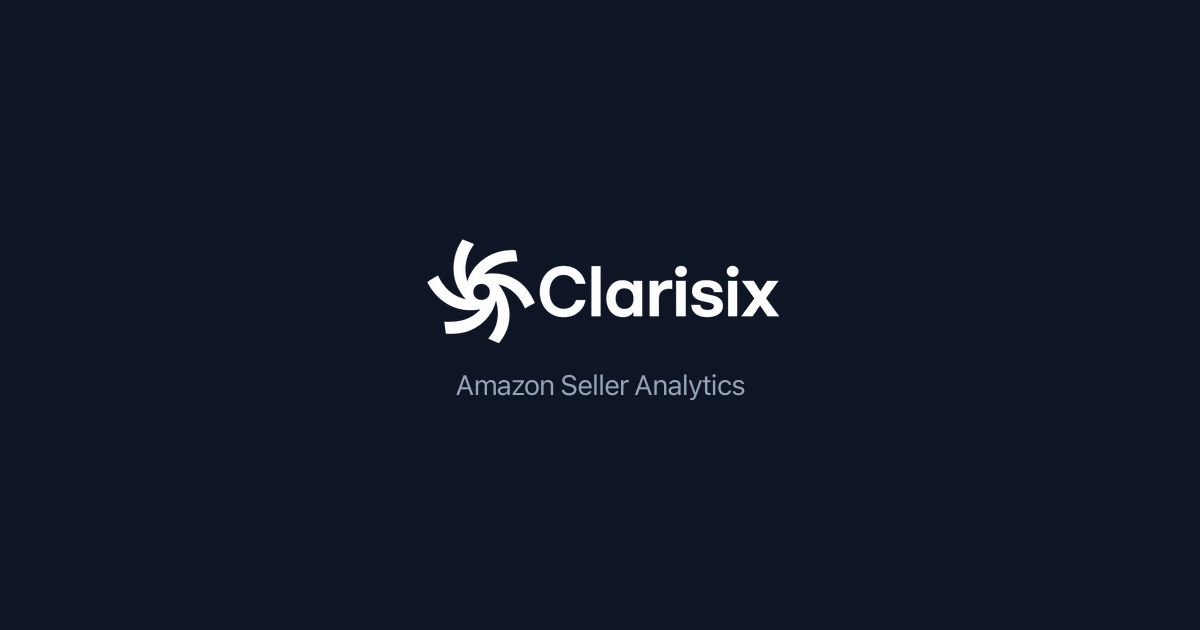
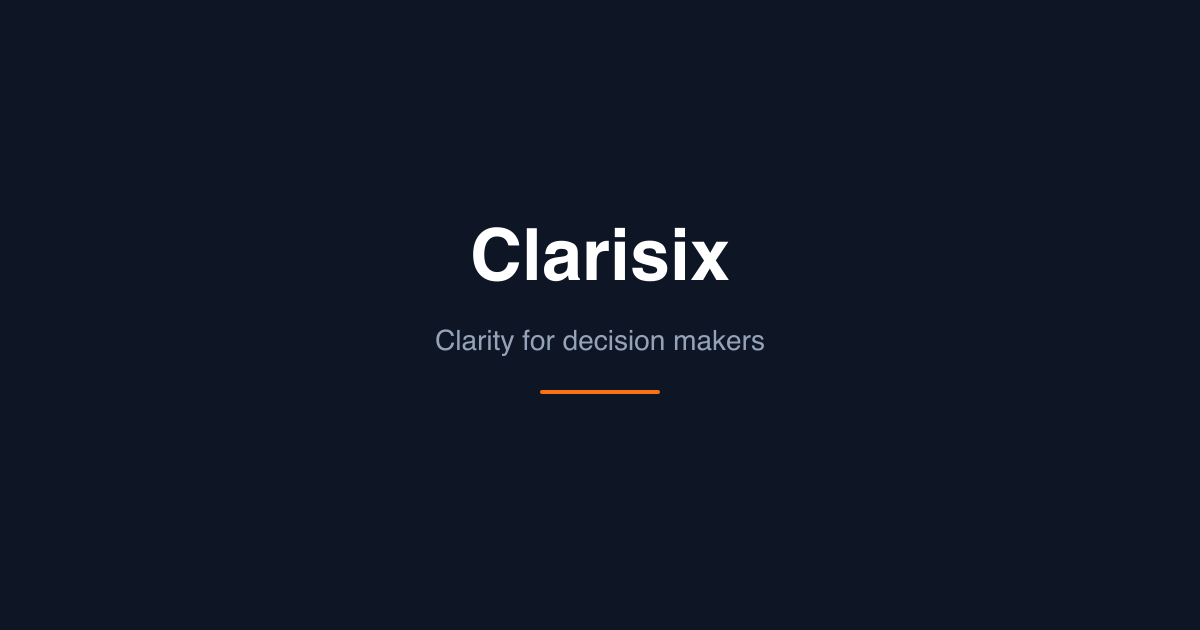
Updated tagline to Clarisix | Clarity for decision makers

Changed region(s): [[0.3392, 0.3619, 0.6475, 0.573], [0.37, 0.6032, 0.6167, 0.6333]]

diff --git a/index.html b/index.html
@@ -4,16 +4,16 @@
     <meta charset="UTF-8" />
     <link rel="icon" type="image/png" href="/clarisix_favicon_orange.png" />
     <meta name="viewport" content="width=device-width, initial-scale=1.0" />
-    <title>Clarisix — Amazon Seller Analytics</title>
-    <meta name="description" content="Clarisix gives Amazon sellers clarity on sales, advertising, and profitability across every marketplace." />
-    <meta property="og:title" content="Clarisix — Amazon Seller Analytics" />
-    <meta property="og:description" content="Sales, advertising & profitability insights for Amazon sellers." />
+    <title>Clarisix | Clarity for decision makers</title>
+    <meta name="description" content="Clarisix gives decision makers clarity on sales, advertising, and profitability across every marketplace." />
+    <meta property="og:title" content="Clarisix | Clarity for decision makers" />
+    <meta property="og:description" content="Clarity on sales, advertising & profitability for decision makers." />
     <meta property="og:image" content="https://demo.clarisix.com/og-image.png" />
     <meta property="og:url" content="https://demo.clarisix.com" />
     <meta property="og:type" content="website" />
     <meta name="twitter:card" content="summary_large_image" />
-    <meta name="twitter:title" content="Clarisix — Amazon Seller Analytics" />
-    <meta name="twitter:description" content="Sales, advertising & profitability insights for Amazon sellers." />
+    <meta name="twitter:title" content="Clarisix | Clarity for decision makers" />
+    <meta name="twitter:description" content="Clarity on sales, advertising & profitability for decision makers." />
     <meta name="twitter:image" content="https://demo.clarisix.com/og-image.png" />
     <link rel="preconnect" href="https://fonts.googleapis.com" />
     <link rel="preconnect" href="https://fonts.gstatic.com" crossorigin />
